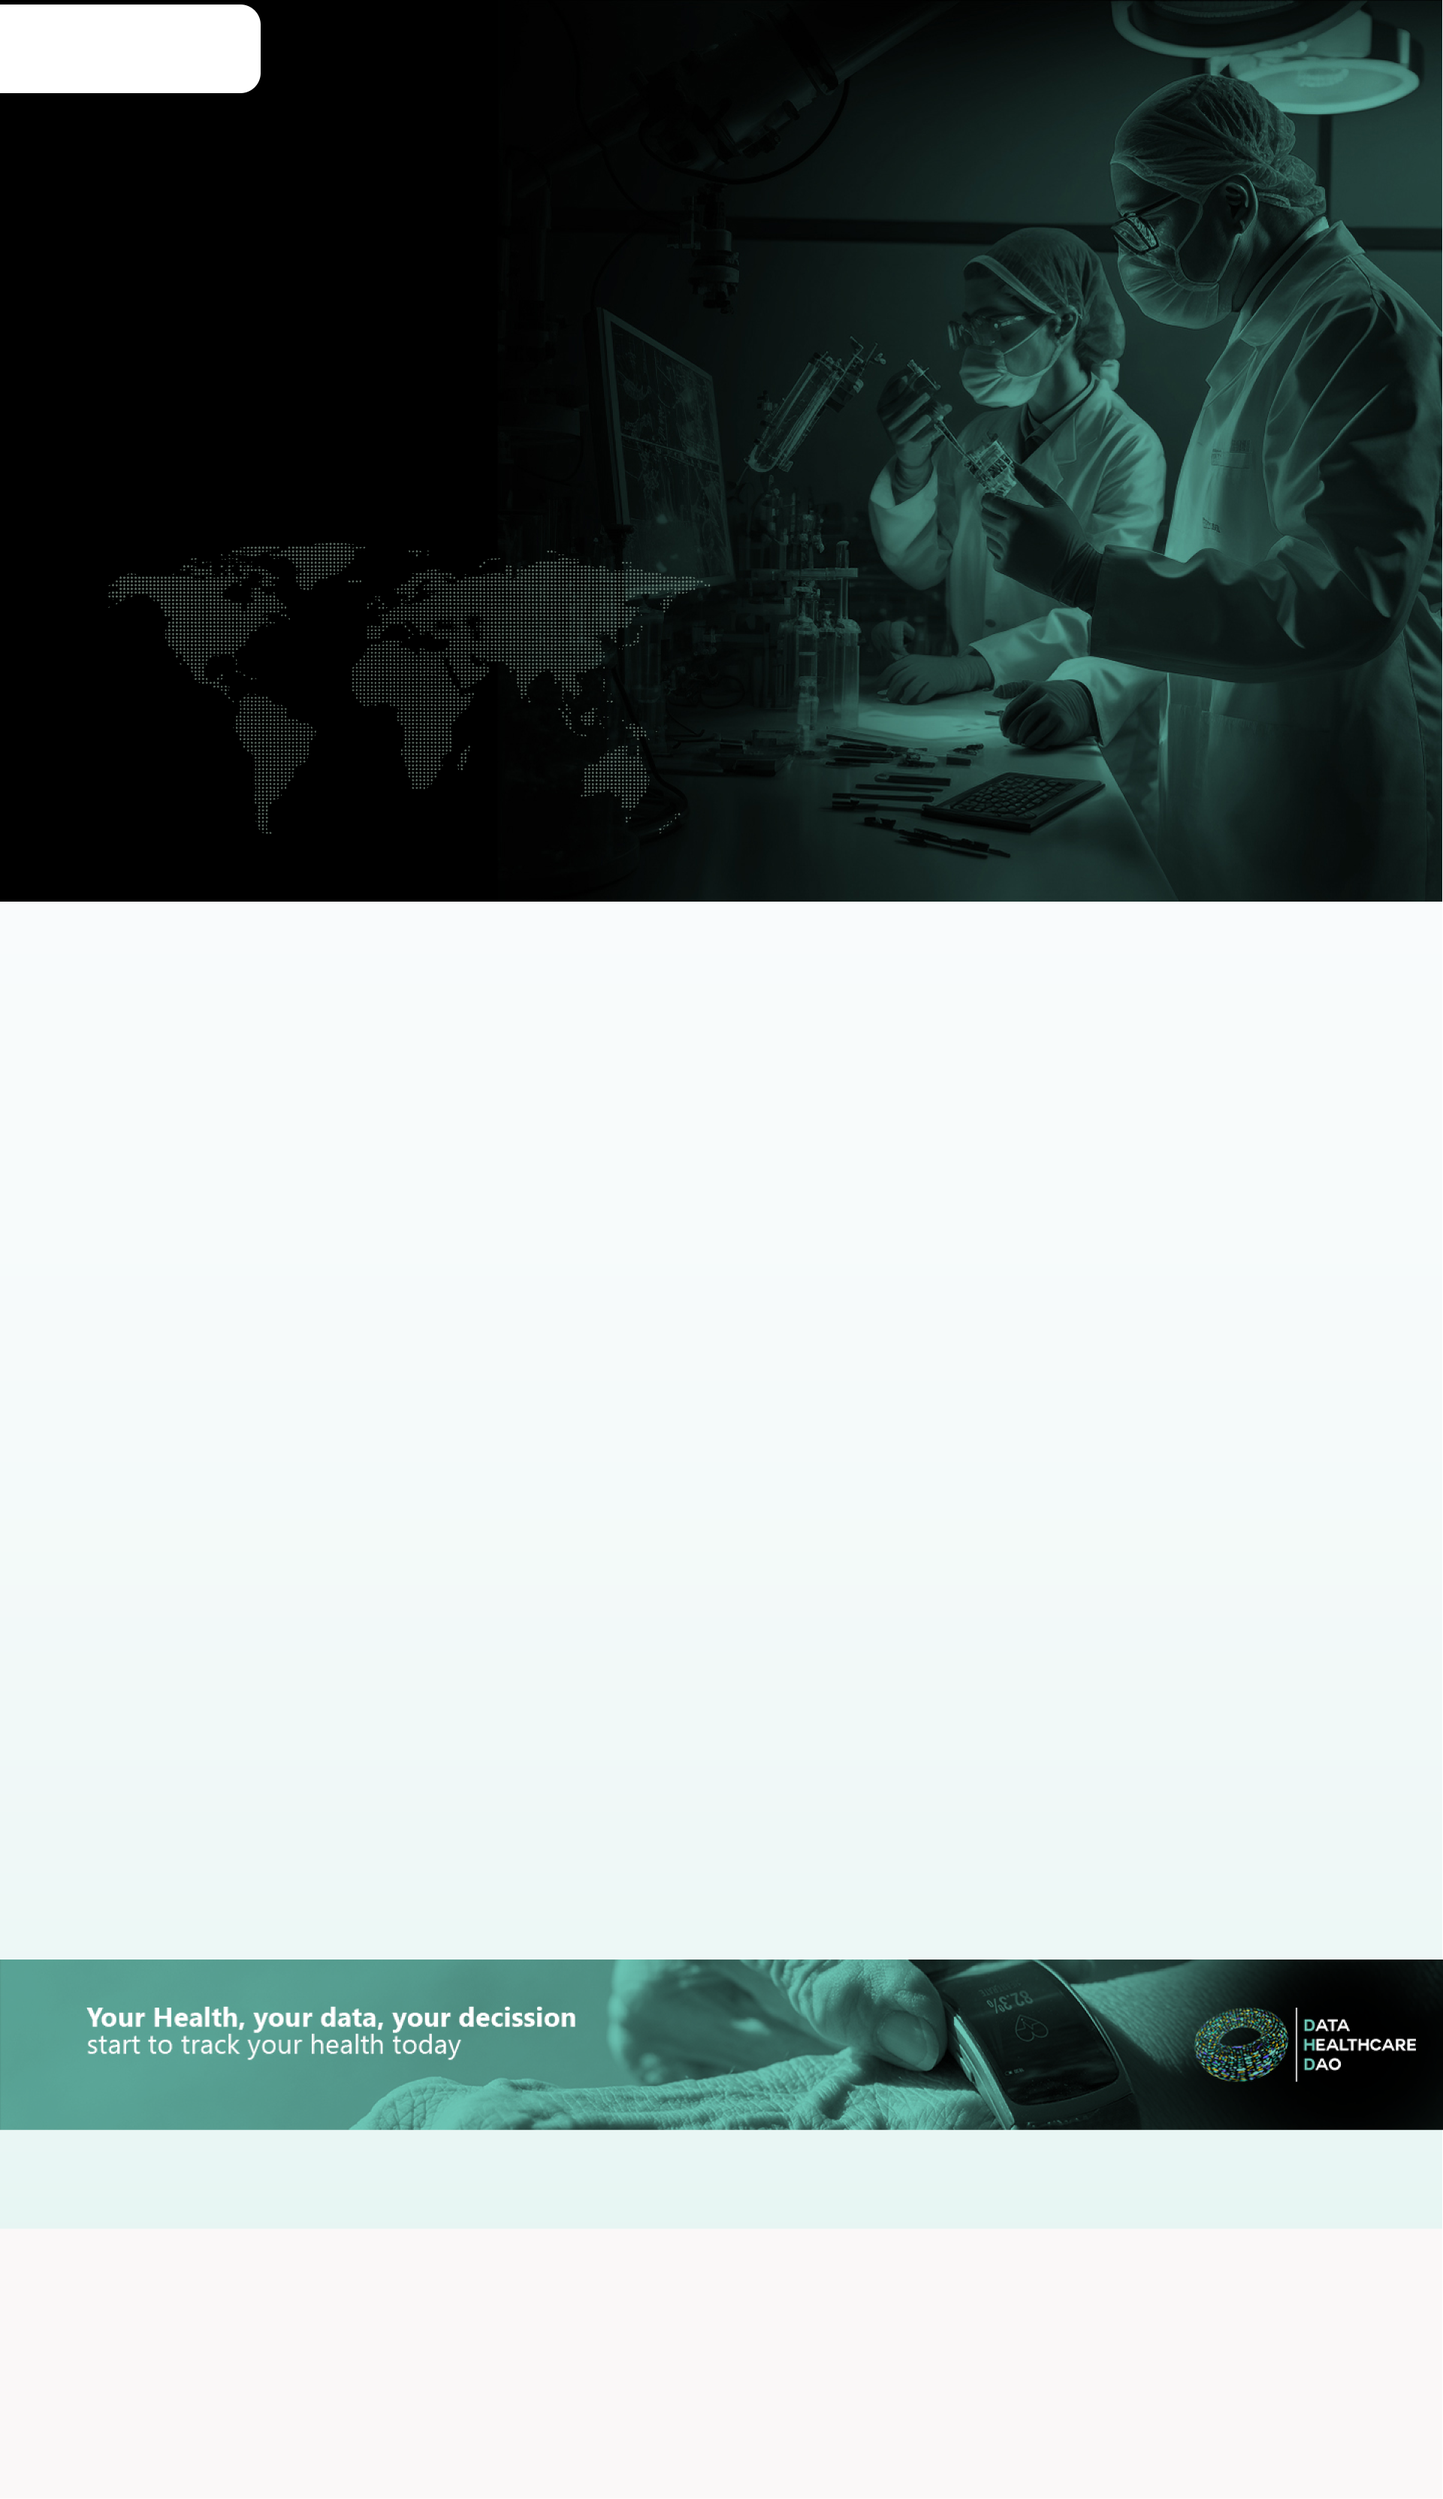
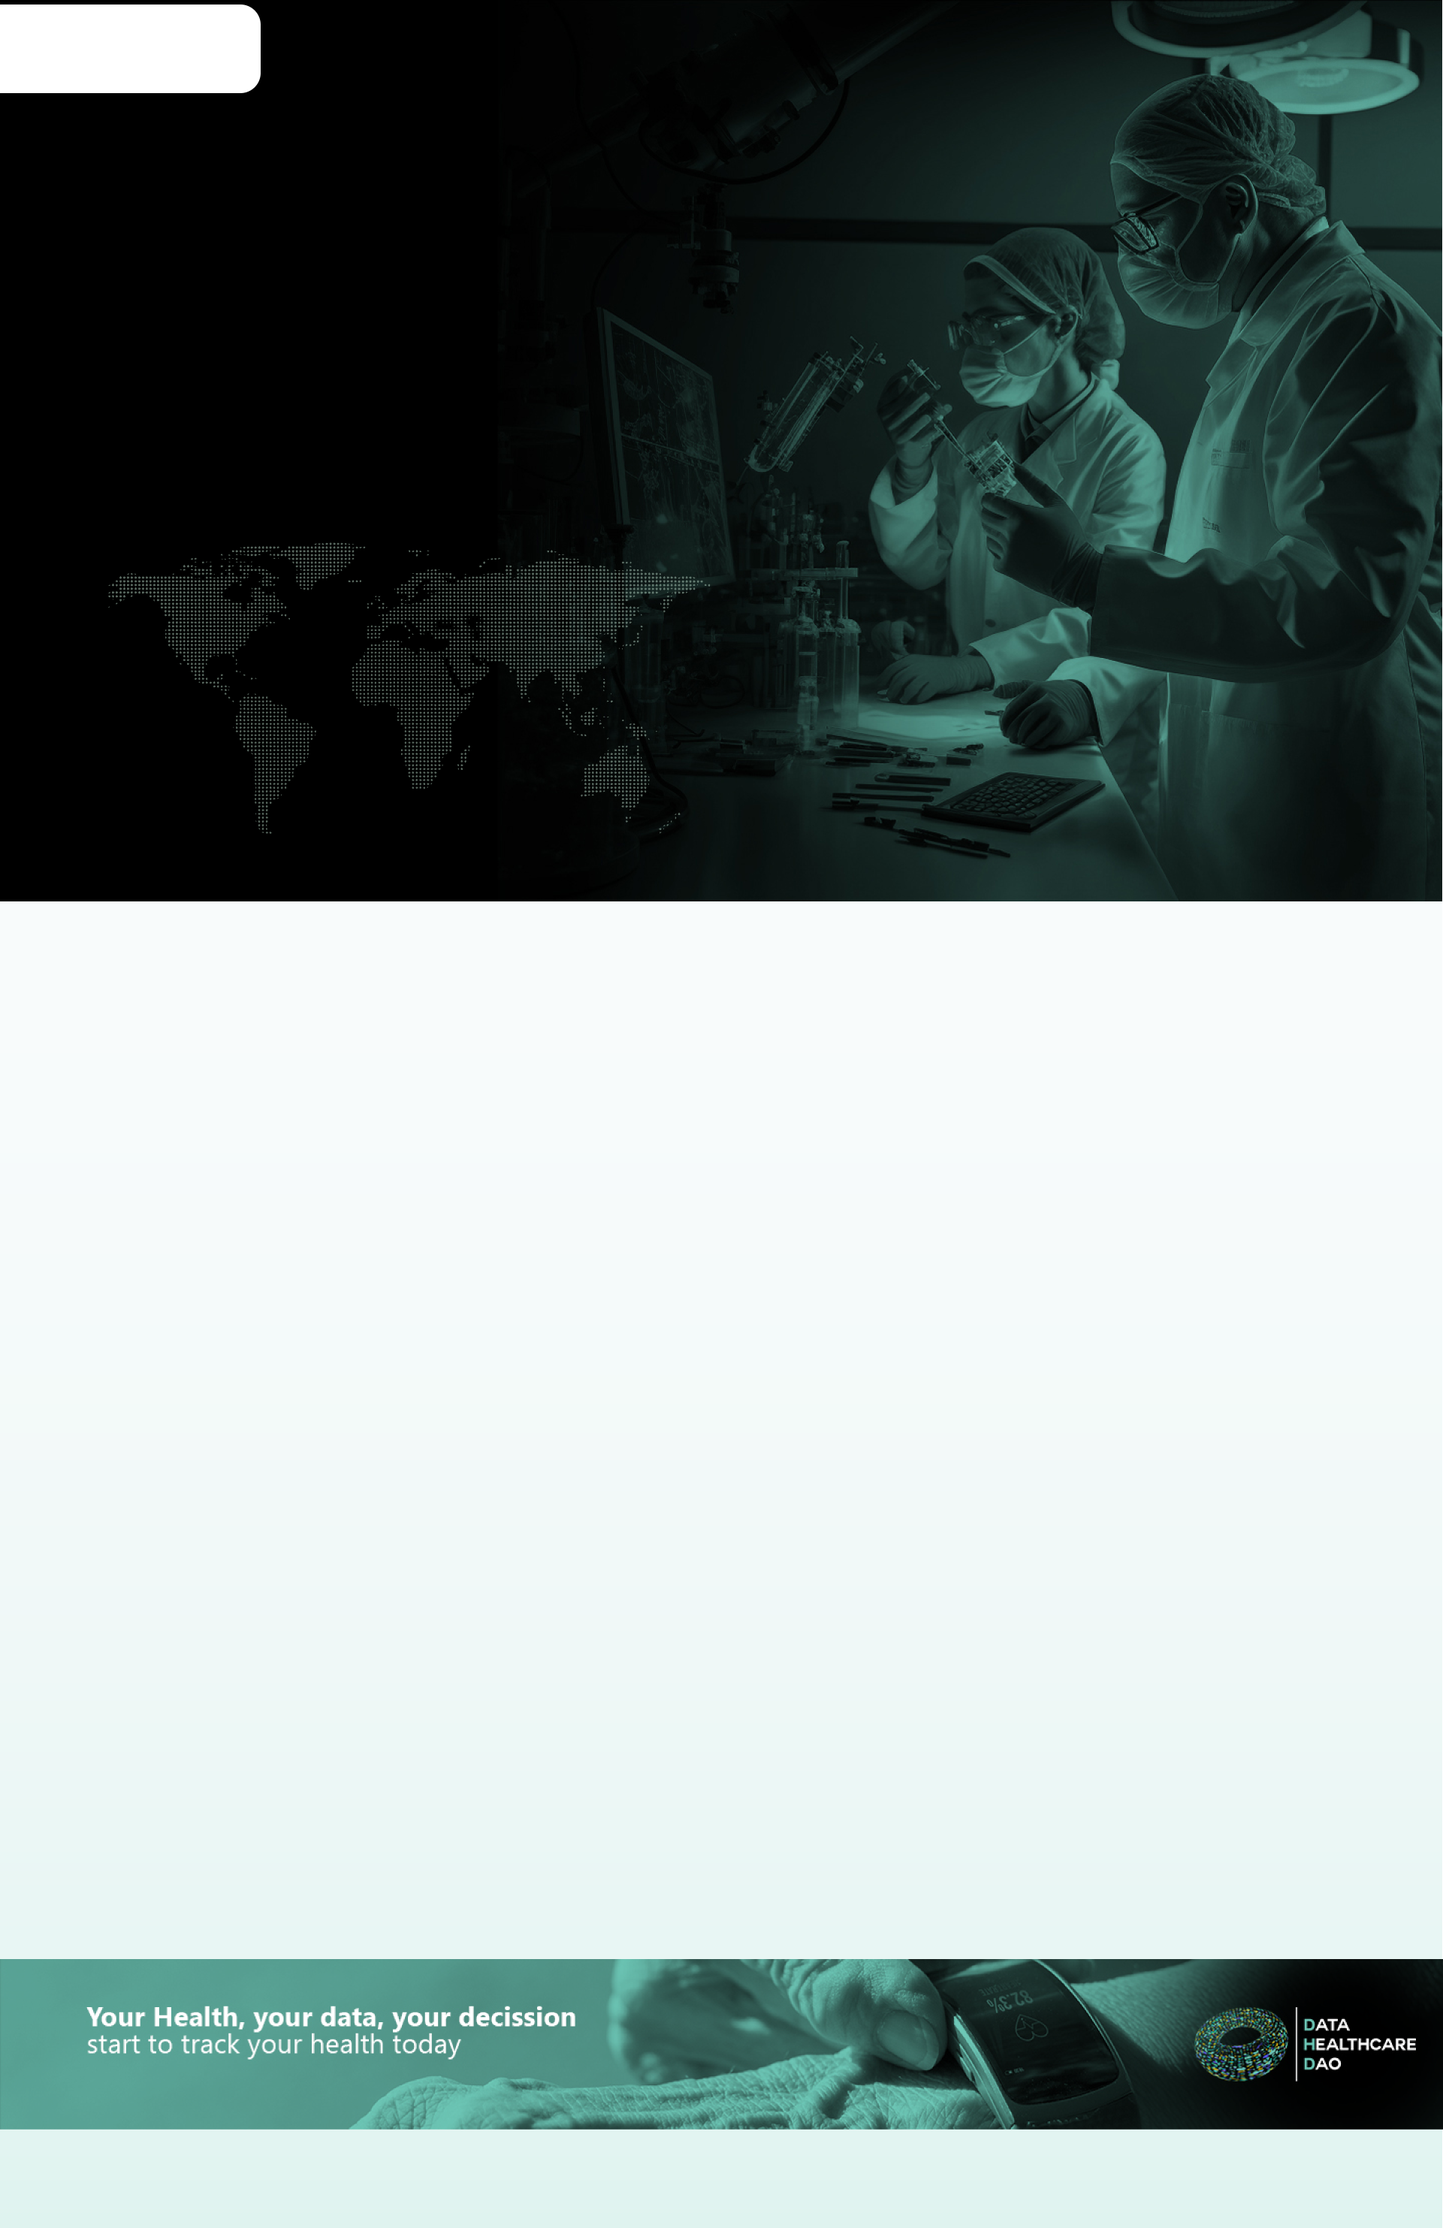
[STYLES] Was created the footer component

diff --git a/src/app/pages/DHDHome/DHDHome.scss b/src/app/pages/DHDHome/DHDHome.scss
@@ -1,6 +1,5 @@
 .home {
 	position: absolute;
-	height: 545.8rem;
 	background-image: url(../../../assets//images/background-home.png);
 	background-repeat: no-repeat;
 	z-index: -1;
@@ -181,7 +180,7 @@
 
 	&-usecase {
 		height: 54.57rem;
-		margin-bottom: 37.48rem;
+		margin-bottom: 47.48rem;
 		display: flex;
 		flex-direction: column;
 		align-items: center;
@@ -251,15 +250,14 @@
 
 	&-research {
 		width: 13.94rem;
-		height: 72.1rem;
+		height: 56.8rem;
 		margin-left: 30.4rem;
-		margin-bottom: 9.8rem;
 
 		&__app {
 			width: 25.974rem;
-			height: 7.421rem;
+			height: 6.421rem;
 			margin-top: 2.264rem;
-			margin-bottom: 3.67rem;
+			margin-bottom: 1.67rem;
 			border: 0.1rem solid #6dc8b7;
 			border-radius: 5rem;
 			cursor: pointer;
@@ -277,8 +275,8 @@
 		&__title {
 			width: 63.603rem;
 			height: 16.771rem;
-			margin-left: 37.899rem;
-			margin-bottom: 1.04rem;
+			margin-left: 32.899rem;
+			margin-bottom: 0.84rem;
 			visibility: hidden;
 			text-align: center;
 			font-family: 'Roboto';
@@ -299,7 +297,7 @@
 		&__description {
 			width: 135.813rem;
 			margin-left: 1.793rem;
-			margin-bottom: 10.72rem;
+			margin-bottom: 6.72rem;
 			visibility: hidden;
 			text-align: center;
 			font-family: 'Roboto';
@@ -321,7 +319,7 @@
 		&__acquire {
 			width: 25.974rem;
 			height: 7.421rem;
-			margin-left: 59.656rem;
+			margin-left: 50.856rem;
 			border: 0.1rem solid #6dc8b7;
 			border-radius: 5rem;
 			cursor: pointer;
@@ -339,9 +337,8 @@
 
 	&-newsletter {
 		width: 91.8rem;
-		height: 69.2rem;
-		margin-left: 57.2rem;
-		margin-bottom: 12.234rem;
+		height: 67rem;
+		margin-left: 49.4rem;
 		display: flex;
 		flex-direction: column;
 
@@ -382,7 +379,6 @@
 			width: 34.4rem;
 			height: 4.8rem;
 			margin-left: 29.7rem;
-			margin-bottom: 1.6rem;
 			cursor: pointer;
 			border: 0.1rem solid #6dc8b7;
 			background-color: #6dc8b7;

diff --git a/src/app/shared/Footer/Footer.scss b/src/app/shared/Footer/Footer.scss
@@ -1,12 +1,15 @@
-footer {
-	width: 16.84rem;
-	height: 4.938rem;
+.footer {
+	height: 26.8rem;
 	display: flex;
 	align-items: center;
 	justify-content: space-between;
-	.title {
-		width: 3.84rem;
+
+	&__title {
+		width: 38.4rem;
 		height: 4.268rem;
+		margin-left: 15.7rem;
+		padding-top: 1.128rem;
+
 		font-family: 'Roboto';
 		font-style: normal;
 		font-weight: 400;
@@ -15,13 +18,20 @@ footer {
 
 		color: #404041;
 	}
-	.social {
+	&-social {
+		width: 46.909rem;
+		height: 3rem;
+		padding-top: 1.128rem;
+		margin-right: 7.9rem;
 		display: flex;
 		align-items: center;
-		justify-content: center;
+		justify-content: space-between;
 		gap: 3.273rem;
 
 		&__item {
+			width: max-content;
+			height: 4.444rem;
+			cursor: pointer;
 			font-family: 'Roboto';
 			font-style: normal;
 			font-weight: 400;

diff --git a/src/app/shared/Footer/index.jsx b/src/app/shared/Footer/index.jsx
@@ -3,12 +3,12 @@ import React from 'react'
 
 export function Footer(props) {
 	return (
-		<footer>
-			<p className='title'>©DHD Data Healthcare DAO 2023</p>
-			<div className='social'>
-				<p className='social__item'>LinkedIn</p>
-				<p className='social__item'>Telgram</p>
-				<p className='social__item'>Github</p>
+		<footer className='footer'>
+			<p className='footer__title'>© DHD Data Healthcare DAO 2023</p>
+			<div className='footer-social'>
+				<p className='footer-social__item'>LinkedIn</p>
+				<p className='footer-social__item'>Telgram</p>
+				<p className='footer-social__item'>Github</p>
 			</div>
 		</footer>
 	)

diff --git a/src/app/pages/DHDHome/index.jsx b/src/app/pages/DHDHome/index.jsx
@@ -69,7 +69,7 @@ export function DHDHome() {
 				</div>
 			</div>
 			<div className='home-research'>
-				<button className='home-research__app'>For Research Teams</button>
+				{/* <button className='home-research__app'>For Research Teams</button> */}
 				<p className='home-research__title'></p>
 				<p className='home-research__description'></p>
 				<button className='home-research__acquire'>Acquire data</button>
@@ -83,6 +83,7 @@ export function DHDHome() {
 					Subscribe to our newsletter
 				</button>
 			</div>
+			<Footer />
 		</div>
 	)
 }

diff --git a/src/app/pages/DHDDashboard/index.jsx b/src/app/pages/DHDDashboard/index.jsx
@@ -1,6 +1,15 @@
 import './DHDDashboard.scss'
 import React from 'react'
+import { Footer } from '../../shared/Footer'
 
 export function DHDDashboard() {
-	return <div>jajaja</div>
+	return (
+		<div className='dashboard'>
+			<div className='info'>
+				<div className='info-personal'></div>
+				<div className='info-notificaction'></div>
+			</div>
+			<Footer />
+		</div>
+	)
 }

diff --git a/src/app/pages/DHDAcquireData/DHDAcquireData.scss b/src/app/pages/DHDAcquireData/DHDAcquireData.scss
@@ -1,6 +1,6 @@
 .acquire {
 	position: absolute;
-	min-height: 332.6rem;
+	height: 324.4rem;
 	background-image: url(../../../assets//images/background-acquire.png);
 	background-repeat: no-repeat;
 	z-index: -1;
@@ -86,6 +86,7 @@
 		width: 130.868rem;
 		height: 98.4rem;
 		margin-left: 37.16rem;
+		margin-bottom: 52.998rem;
 
 		&__title {
 			margin-bottom: 13rem;

diff --git a/src/app/pages/DHDAcquireData/index.jsx b/src/app/pages/DHDAcquireData/index.jsx
@@ -1,5 +1,6 @@
 import './DHDAcquireData.scss'
 import React from 'react'
+import { Footer } from '../../shared/Footer'
 
 export function DHDAcquireData() {
 	return (
@@ -89,6 +90,7 @@ export function DHDAcquireData() {
 					</div>
 				</form>
 			</div>
+			<Footer className='footer' />
 		</div>
 	)
 }

diff --git a/src/app/index.jsx b/src/app/index.jsx
@@ -23,9 +23,7 @@ function App() {
 						<Route path='*' element={<Navigate replace to='/' />} />
 					</Routes>
 				</main>
-				{/* <CyclimateFooter /> */}
 			</>
-			{/* )} */}
 		</>
 	)
 }

diff --git a/src/app/pages/DHDDashboard/DHDDashboard.scss b/src/app/pages/DHDDashboard/DHDDashboard.scss
@@ -1,0 +1,7 @@
+.dashboard {
+	position: absolute;
+	height: 367rem;
+	background-image: url(../../../assets//images/background-dashboard.png);
+	background-repeat: no-repeat;
+	z-index: -1;
+}
